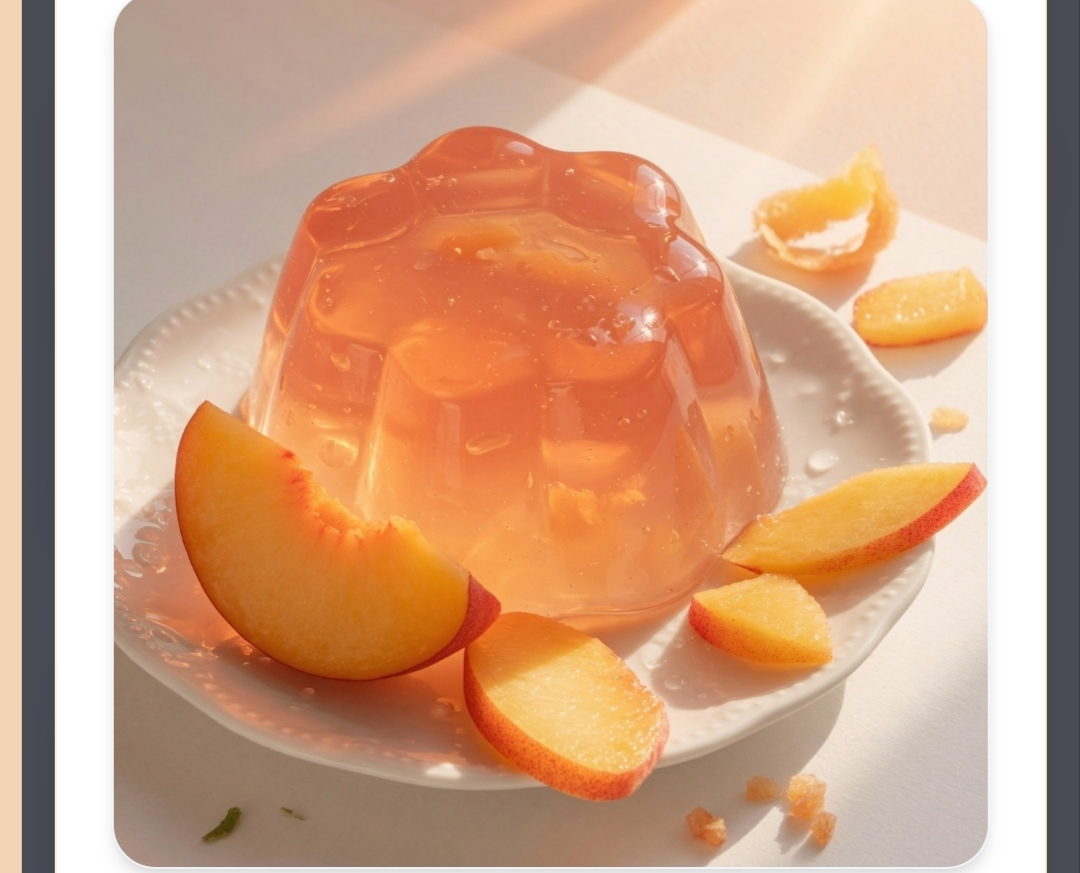
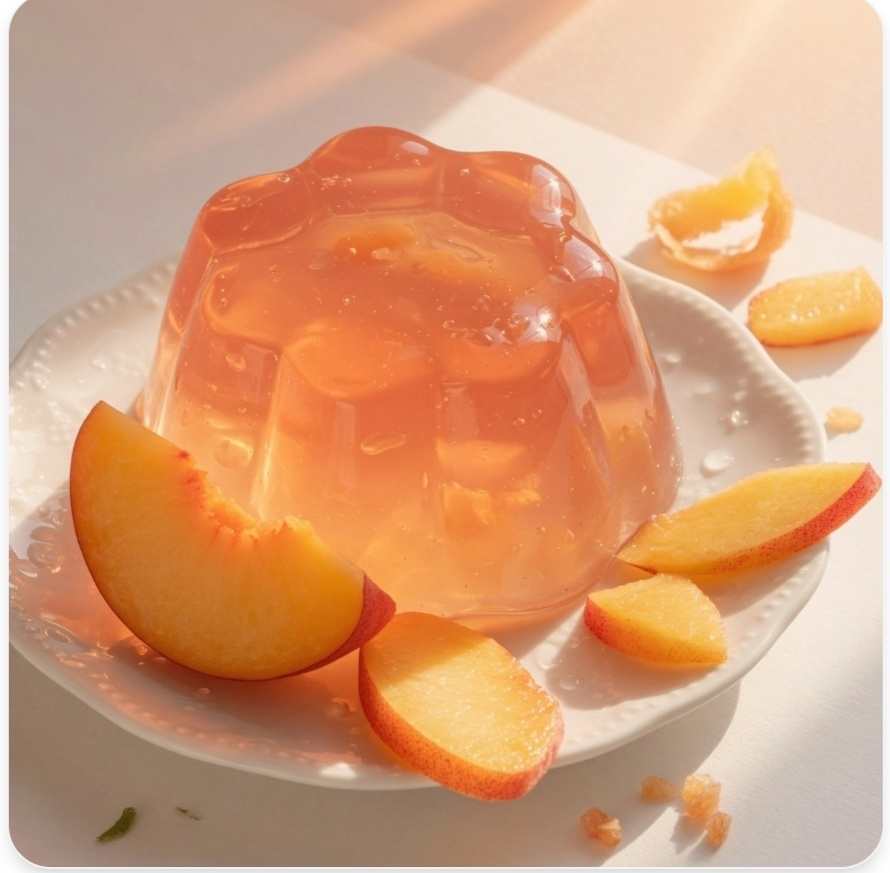
Fix custom-domain white screen, compact mobile hero, trim hero image margins
- White screen (zheno.devs.surf): Vite base was hardcoded to
  /zheno-website/, so the router basename never matched the custom
  domain root and every image URL 404'd. Base is now / and the
  router basename + asset URLs resolve from the actual mount point
  at runtime (src/utils/siteBase.ts), so one build works on both
  the custom-domain root and the repository sub-path. Added
  public/CNAME so the domain persists across Pages deploys.
- Smoke suite now also covers the root mount (/... routes).
- Hero frame is more compact on mobile (narrower max-width, 4/3
  aspect matching the near-square slides); desktop lg: unchanged.
- Trimmed blank outer chrome baked into 4 hero files (002041 side
  bars + white strips; thin white edge bands on 002115/002139/
  002159). Dessert pixels, colors and EXIF provenance preserved;
  slide dimensions updated. Product photos verified margin-free
  (pixel audit + cover-frame render simulations) and left untouched.

diff --git a/src/pages/HomePage.tsx b/src/pages/HomePage.tsx
@@ -20,15 +20,19 @@ import { soundService } from '../services/soundService';
 import ProductCard from '../components/ProductCard';
 import ProductVisual from '../components/ProductVisual';
 import { useReveal } from '../hooks/useReveal';
+import { withSiteBase } from '../utils/siteBase';
 import { cn } from '../utils/cn';
 
-const HERO_BG_URL = `url("${import.meta.env.BASE_URL}images/hero-bg.jpg")`;
+const HERO_BG_URL = `url("${withSiteBase('images/hero-bg.jpg')}")`;
 
 // Hero slideshow — FINISHED / PREPARED desserts only.
 // These are the owner's 9 real finished-dessert photos (audit-verified),
-// shot in one Android session on 2026-09-03 00:17–00:19 and uploaded
-// unchanged (byte-identical to the originals). They are the ONLY images
-// used in the Hero frame.
+// shot in one Android session on 2026-09-03 00:17–00:19. They are the ONLY
+// images used in the Hero frame. Four files had blank outer chrome baked
+// in (002041's side bars + white strips; thin white edge bands on
+// 002115/002139/002159) — only those empty outer bands were trimmed, the
+// dessert photographs themselves are untouched (same pixels, same EXIF
+// provenance, dimensions updated below).
 // Never used here:
 //   - images/products/*        → powder-in-glass package shots (product cards only)
 //   - jelly-powder-hero.jpg    → no camera provenance; encoder fingerprint identical
@@ -39,55 +43,55 @@ const HERO_BG_URL = `url("${import.meta.env.BASE_URL}images/hero-bg.jpg")`;
 // stretching or re-encoding the files.
 const HERO_SLIDES = [
   {
-    src: `${import.meta.env.BASE_URL}images/IMG_20260903_002041.jpg`,
+    src: withSiteBase('images/IMG_20260903_002041.jpg'),
     alt: 'دسر آمادهٔ کهرباییرنگ با جزئیات سفید؛ عکس واقعی از دسرهای ژینو',
-    width: 1080,
+    width: 890,
     height: 873,
   },
   {
-    src: `${import.meta.env.BASE_URL}images/IMG_20260903_002115.jpg`,
+    src: withSiteBase('images/IMG_20260903_002115.jpg'),
     alt: 'دسر زرد آماده؛ عکس واقعی از دسرهای ژینو',
-    width: 910,
+    width: 880,
     height: 858,
   },
   {
-    src: `${import.meta.env.BASE_URL}images/IMG_20260903_002139.jpg`,
+    src: withSiteBase('images/IMG_20260903_002139.jpg'),
     alt: 'دسر دو رنگ سبز و کهربایی در صحنهای تیره؛ عکس واقعی از دسرهای ژینو',
-    width: 938,
-    height: 866,
+    width: 882,
+    height: 863,
   },
   {
-    src: `${import.meta.env.BASE_URL}images/IMG_20260903_002159.jpg`,
+    src: withSiteBase('images/IMG_20260903_002159.jpg'),
     alt: 'دسر قرمز روشن آماده؛ عکس واقعی از دسرهای ژینو',
-    width: 891,
+    width: 877,
     height: 868,
   },
   {
-    src: `${import.meta.env.BASE_URL}images/IMG_20260903_002226.jpg`,
+    src: withSiteBase('images/IMG_20260903_002226.jpg'),
     alt: 'دسر قرمز تیره در پسزمینهای تیره؛ عکس واقعی از دسرهای ژینو',
     width: 870,
     height: 876,
   },
   {
-    src: `${import.meta.env.BASE_URL}images/IMG_20260903_002256.jpg`,
+    src: withSiteBase('images/IMG_20260903_002256.jpg'),
     alt: 'دسر نارنجیرنگ آماده؛ عکس واقعی از دسرهای ژینو',
     width: 835,
     height: 820,
   },
   {
-    src: `${import.meta.env.BASE_URL}images/IMG_20260903_002320.jpg`,
+    src: withSiteBase('images/IMG_20260903_002320.jpg'),
     alt: 'دسر کرمیرنگ با عنصر قرمز؛ عکس واقعی از دسرهای ژینو',
     width: 858,
     height: 853,
   },
   {
-    src: `${import.meta.env.BASE_URL}images/IMG_20260903_002353.jpg`,
+    src: withSiteBase('images/IMG_20260903_002353.jpg'),
     alt: 'دسر آبیرنگ آماده؛ عکس واقعی از دسرهای ژینو',
     width: 856,
     height: 835,
   },
   {
-    src: `${import.meta.env.BASE_URL}images/IMG_20260903_002418.jpg`,
+    src: withSiteBase('images/IMG_20260903_002418.jpg'),
     alt: 'دسر سرخ تیره در صحنهای تاریک؛ عکس واقعی از دسرهای ژینو',
     width: 851,
     height: 862,
@@ -204,12 +208,12 @@ export default function HomePage() {
           {/* IMAGE 2 — finished-dessert slideshow (small fixed frame) */}
           <figure className="mt-5 lg:mt-0" style={{ '--rise-delay': '0.26s' } as CSSProperties}>
             {slideCount > 0 ? (
-              <div className="frame-lux mx-auto w-full max-w-[26rem] lg:max-w-[30rem]">
+              <div className="frame-lux mx-auto w-full max-w-[19rem] sm:max-w-[22rem] lg:max-w-[30rem]">
                 <div className="relative overflow-hidden rounded-2xl shadow-[0_40px_80px_-36px_rgba(0,0,0,0.85)] lg:arch">
                   <div
                     role="group"
                     aria-label="دسرهای آمادهشده از پودر ژله و کاستر ژینو"
-                    className="relative aspect-[16/9] w-full bg-[radial-gradient(135%_110%_at_50%_0%,#4a1522_0%,#2a0b12_50%,#1d070c_100%)] lg:aspect-[4/3.2]"
+                    className="relative aspect-[4/3] w-full bg-[radial-gradient(135%_110%_at_50%_0%,#4a1522_0%,#2a0b12_50%,#1d070c_100%)] lg:aspect-[4/3.2]"
                   >
                     {heroSlides.map((slide, i) => (
                       <img

diff --git a/src/utils/siteBase.ts b/src/utils/siteBase.ts
@@ -1,0 +1,49 @@
+// ============================================================
+// ZHINO — deployment base path (custom domain + Pages sub-path)
+//
+// One production build serves BOTH:
+//   - the custom-domain root:  https://zheno.devs.surf/
+//   - the repository URL:      https://<user>.github.io/zheno-website/
+// (GitHub Pages redirects the latter to the former once a custom
+// domain is set, but direct visits keep working too.)
+//
+// The Vite `base` is "/" so the bundle carries no sub-path
+// assumption; the router basename and every public-asset URL are
+// resolved here at runtime from the actual mount point. This is
+// what keeps the app from rendering a blank page when the mount
+// point and a hardcoded basename disagree.
+// ============================================================
+
+/** Sub-path mount kept working for direct repository-URL visits. */
+const LEGACY_SUBPATH = '/zheno-website';
+
+/**
+ * Site mount point: "/" on the custom domain (and in dev), or
+ * "/zheno-website" when the app is served from the repository URL.
+ * Pure function of the current location — constant for a page load.
+ */
+export function getSiteBase(): string {
+  if (typeof window !== 'undefined') {
+    const pathname = window.location.pathname;
+    if (pathname === LEGACY_SUBPATH || pathname.startsWith(`${LEGACY_SUBPATH}/`)) {
+      return LEGACY_SUBPATH;
+    }
+    return '/';
+  }
+  const base = import.meta.env.BASE_URL;
+  if (typeof base === 'string' && base.startsWith('/')) {
+    return base.replace(/\/+$/, '') || '/';
+  }
+  return '/';
+}
+
+/**
+ * Join a public-folder-relative path (e.g. "images/x.jpg") onto the
+ * current mount point, so images resolve on both the custom-domain
+ * root and the repository sub-path.
+ */
+export function withSiteBase(relativePath: string): string {
+  const clean = relativePath.replace(/^\/+/, '');
+  const base = getSiteBase();
+  return base === '/' ? `/${clean}` : `${base}/${clean}`;
+}

diff --git a/vite.config.ts b/vite.config.ts
@@ -35,18 +35,20 @@ function spa404Fallback(): Plugin {
 
 // https://vite.dev/config/
 export default defineConfig({
-  // Repository deployment: https://<user>.github.io/zheno-website/
-  base: "/zheno-website/",
+  // Root deployment: the custom domain https://zheno.devs.surf/ serves
+  // the site from "/". (The router + asset URLs detect the legacy
+  // /zheno-website/ repository sub-path at runtime, so one build
+  // works on both mounts — see src/utils/siteBase.ts.)
+  base: "/",
   plugins: [
     react(),
     tailwindcss(),
-    // vite-plugin-singlefile's recommended build config overrides `base`
-    // with "./", which breaks the GitHub Pages sub-path deployment
-    // (BASE_URL becomes "./" and the router basename breaks with it).
-    // overrideConfig is applied AFTER that override, restoring the base.
+    // Pin the base back to "/" after vite-plugin-singlefile's
+    // recommended build config (it would otherwise override `base`
+    // with "./", breaking root-absolute asset URLs).
     viteSingleFile({
       overrideConfig: {
-        base: "/zheno-website/",
+        base: "/",
       },
     }),
     spa404Fallback(),

diff --git a/src/components/ProductVisual.tsx b/src/components/ProductVisual.tsx
@@ -7,6 +7,7 @@
 // ============================================================
 
 import { useState } from 'react';
+import { withSiteBase } from '../utils/siteBase';
 
 interface Props {
   color: string;
@@ -31,8 +32,9 @@ export default function ProductVisual({
 }: Props) {
   const [imgFailed, setImgFailed] = useState(false);
 
-  // Real production photo: same frame, resolved against the Vite base
-  // so it works both in dev ("/") and on GitHub Pages ("/zheno-website/").
+  // Real production photo: same frame, resolved against the runtime
+  // mount point so it works in dev ("/"), on the custom domain ("/"),
+  // and on the repository sub-path ("/zheno-website/").
   // If the file ever fails to load, fall through to the plated visual —
   // the page never shows a broken image.
   if (imageUrl && !imgFailed) {
@@ -44,7 +46,7 @@ export default function ProductVisual({
         style={{ backgroundColor: 'var(--color-cream-100)' }}
       >
         <img
-          src={`${import.meta.env.BASE_URL}${imageUrl}`}
+          src={withSiteBase(imageUrl)}
           alt={name}
           loading="lazy"
           decoding="async"

diff --git a/src/main.tsx b/src/main.tsx
@@ -8,12 +8,15 @@ import { BrowserRouter } from 'react-router-dom';
 import App from './App';
 import { CartProvider } from './context/CartContext';
 import ErrorBoundary from './components/ErrorBoundary';
+import { getSiteBase } from './utils/siteBase';
 import './index.css';
 import './admin/admin.css';
 
-// BASE_URL is "/" in dev and "/zheno-website/" in the production build,
-// so the router basename always matches the deployed sub-path.
-const basename = import.meta.env.BASE_URL.replace(/\/+$/, '') || '/';
+// Resolved from the actual mount point at runtime: "/" on the custom
+// domain (and in dev), "/zheno-website" on the repository URL. A
+// hardcoded basename here is what rendered a blank page wherever the
+// mount point disagreed with it.
+const basename = getSiteBase();
 
 const rootElement = document.getElementById('root');
 if (!rootElement) {

diff --git a/src/App.tsx b/src/App.tsx
@@ -7,10 +7,11 @@
 //   - everything else — the existing storefront, unchanged:
 //     same Layout, same routes, same guards.
 //
-// GitHub Pages: the router basename follows BASE_URL
-// (/zheno-website/) set in main.tsx, and the built 404.html
-// fallback (vite.config.ts) keeps deep links + refresh working
-// for /admin/* exactly like every other route.
+// GitHub Pages: the router basename is resolved from the actual
+// mount point at runtime ("/" on the custom domain, "/zheno-website"
+// on the repository URL — see main.tsx / utils/siteBase.ts), and the
+// built 404.html fallback (vite.config.ts) keeps deep links +
+// refresh working for /admin/* exactly like every other route.
 // ============================================================
 
 import { Navigate, Route, Routes } from 'react-router-dom';

diff --git a/public/images/README.md b/public/images/README.md
@@ -8,9 +8,11 @@
 
 ## Hero slideshow (IMAGE 2 — the small dessert frame)
 
-The rotating frame uses **only the owner's 9 real finished-dessert photos**,
-uploaded unchanged (byte-identical to the originals) from one Android
-session on 2026-09-03 00:17–00:19:
+The rotating frame uses **only the owner's 9 real finished-dessert photos**
+from one Android session on 2026-09-03 00:17–00:19. Blank outer chrome
+baked into 4 files was trimmed (002041's side bars + white strips;
+thin white edge bands on 002115/002139/002159) — dessert pixels and
+EXIF provenance untouched:
 
 | # | File | Verified |
 | - | ---- | -------- |
@@ -26,7 +28,8 @@ session on 2026-09-03 00:17–00:19:
 
 Rotation: one photo at a time, every 3000 ms, subtle opacity crossfade,
 no arrows, subtle dots only. Every slide is `object-contain` inside the
-small fixed frame — the files are never cropped, stretched or re-encoded.
+small fixed frame — the dessert photographs are never cropped,
+stretched or distorted (only the blank outer bands above were trimmed).
 
 ### Never used in the Hero slideshow
 

diff --git a/public/images/products/README.md b/public/images/products/README.md
@@ -55,9 +55,10 @@ Products without a photo fall back to the catalog-driven plated visual in
 
 `src/data/products.ts` is the single source of truth: each product carries an
 `imageUrl` (site-root-relative, e.g. `images/products/jelly-peach.jpg`).
-`ProductCard` → `ProductVisual` resolves it against the Vite base path, so the
-same field also feeds the cart and product-detail pages. Adding a photo to a new
-product means setting `imageUrl` — no component changes.
+`ProductCard` → `ProductVisual` resolves it against the site's runtime mount
+base (see `src/utils/siteBase.ts`), so the same field also feeds the cart
+and product-detail pages. Adding a photo to a new product means setting
+`imageUrl` — no component changes.
 
 Framing is presentation-only (`object-cover` in CSS); the source files are never
 cropped or re-encoded.
